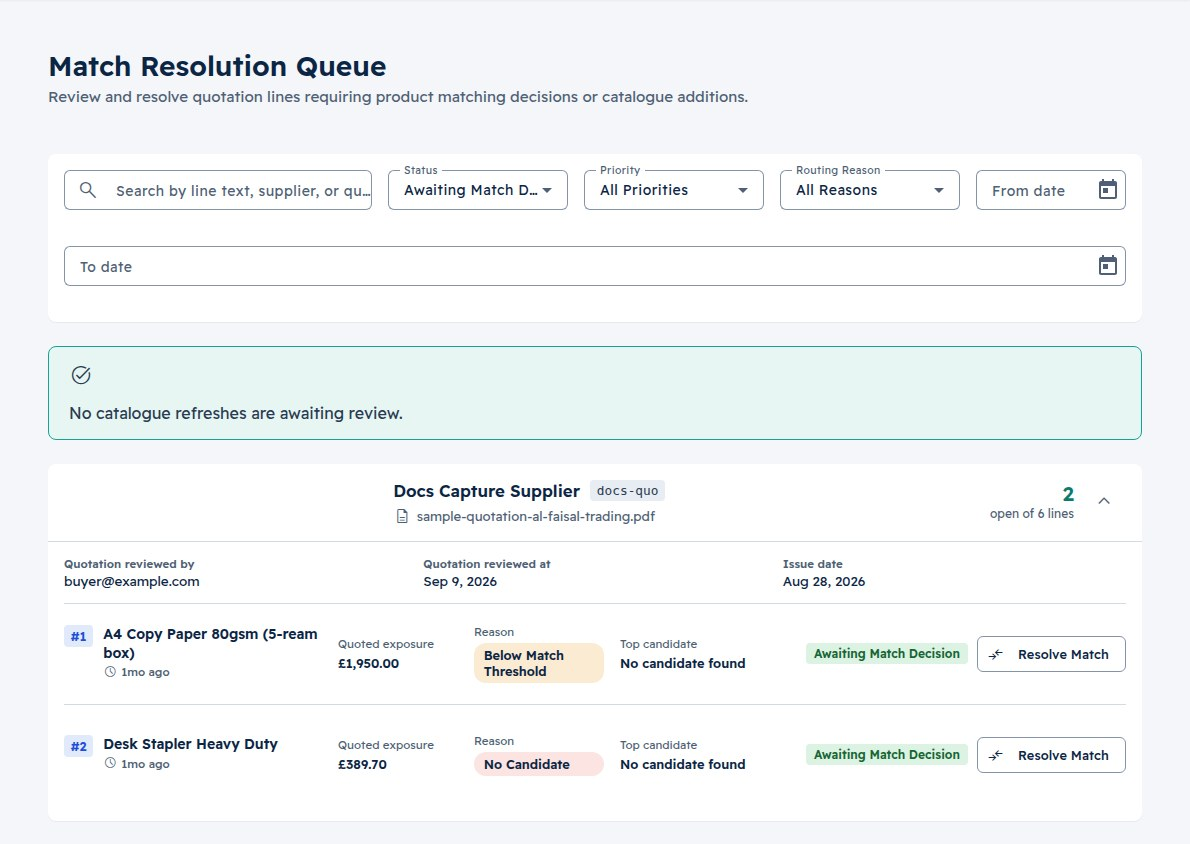
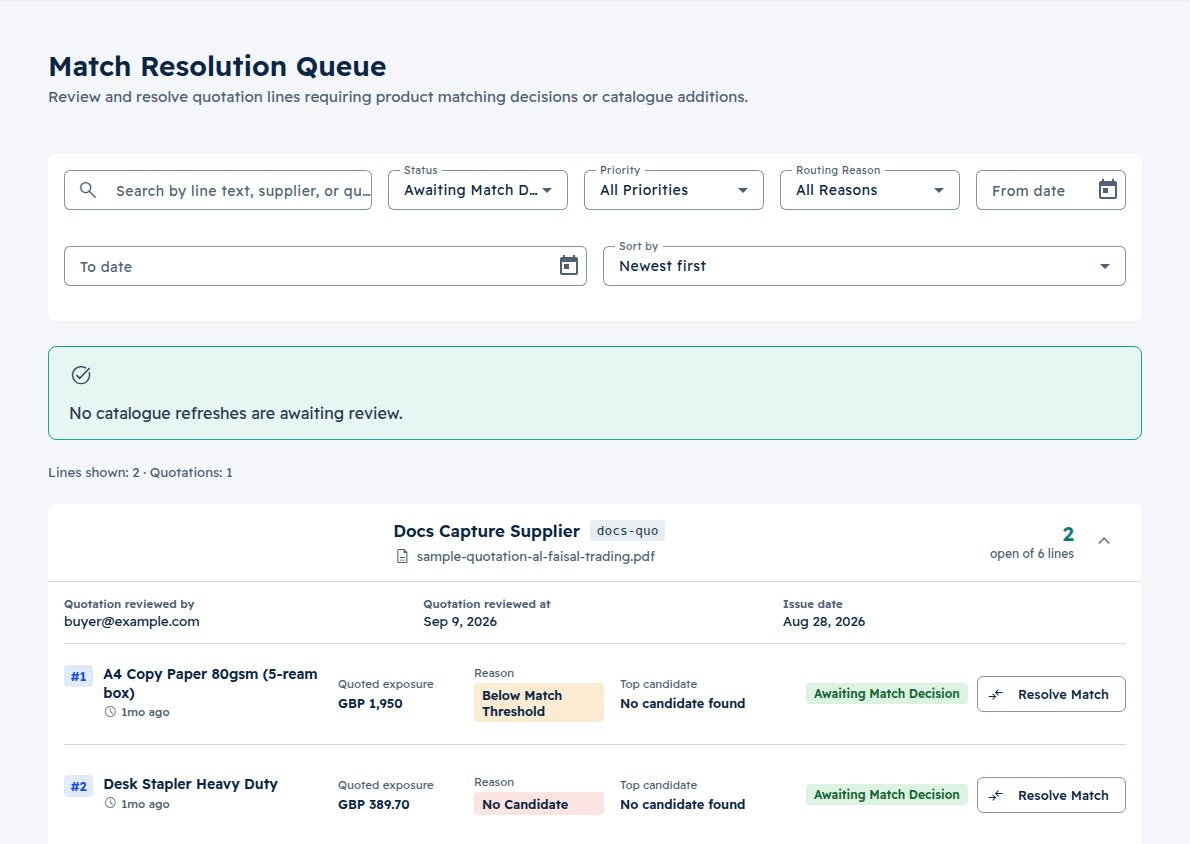
feat(matching): queue sort control, visible result count and more routing reasons (P-153, PPS-197) (#477)
* test(matching): red tests for queue sort control, visible count and routing reasons, plus catalogue keys (P-153, PPS-197)

* feat(matching): queue sort control, visible result count and every routing reason (P-153, PPS-197)

* test(matching): red tests for review findings on the queue reasons (P-153, PPS-197)

* fix(matching): drop the empty human_decided reason, widen status for resolved-only reasons, scope the all-matched state, keep the summary in the a11y tree (P-153, PPS-197)

* docs(screenshots): Match Resolution queue shows the Sort control and result count (P-153, PPS-197)

---------

diff --git a/apps/web/src/app/features/matching/resolution-queue/resolution-queue.component.html b/apps/web/src/app/features/matching/resolution-queue/resolution-queue.component.html
@@ -113,13 +113,19 @@
       </mat-form-field>
       <mat-form-field appearance="outline" class="filter-field">
         <mat-label>{{ 'matching.queue.filterReason' | translate }}</mat-label>
-        <mat-select [value]="reasonFilter()" (selectionChange)="onReasonChange($event.value)">
+        <mat-select
+          data-testid="queue-reason-filter"
+          [value]="reasonFilter()"
+          (selectionChange)="onReasonChange($event.value)"
+        >
           <mat-option value="all">{{ 'matching.queue.reason.all' | translate }}</mat-option>
           <mat-option value="low_confidence">{{ 'matching.queue.reason.low_confidence' | translate }}</mat-option>
           <mat-option value="close_candidates">{{ 'matching.queue.reason.close_candidates' | translate }}</mat-option>
           <mat-option value="fuzzy_match_review">{{ 'matching.queue.reason.fuzzy_match_review' | translate }}</mat-option>
           <mat-option value="no_candidate">{{ 'matching.queue.reason.no_candidate' | translate }}</mat-option>
           <mat-option value="alias_conflict">{{ 'matching.queue.reason.alias_conflict' | translate }}</mat-option>
+          <mat-option value="auto_accepted">{{ 'matching.queue.reason.auto_accepted' | translate }}</mat-option>
+          <mat-option value="corrected">{{ 'matching.queue.reason.corrected' | translate }}</mat-option>
         </mat-select>
       </mat-form-field>
       <mat-form-field appearance="outline" class="filter-field date-field">
@@ -143,6 +149,19 @@
         />
         <mat-datepicker-toggle matIconSuffix [for]="dateToPicker"></mat-datepicker-toggle>
         <mat-datepicker #dateToPicker></mat-datepicker>
+      </mat-form-field>
+      <mat-form-field appearance="outline" class="filter-field">
+        <mat-label>{{ 'matching.queue.sort.label' | translate }}</mat-label>
+        <mat-select
+          data-testid="queue-sort"
+          [value]="currentSortValue()"
+          (selectionChange)="onSortSelectChange($event.value)"
+        >
+          <mat-option value="created_at/desc">{{ 'matching.queue.sort.createdDesc' | translate }}</mat-option>
+          <mat-option value="created_at/asc">{{ 'matching.queue.sort.createdAsc' | translate }}</mat-option>
+          <mat-option value="priority/desc">{{ 'matching.queue.sort.priorityDesc' | translate }}</mat-option>
+          <mat-option value="priority/asc">{{ 'matching.queue.sort.priorityAsc' | translate }}</mat-option>
+        </mat-select>
       </mat-form-field>
     </mat-card-content>
   </mat-card>
@@ -202,9 +221,9 @@
     </section>
   }
 
-  <div class="visually-hidden" data-testid="queue-result-summary" role="status" aria-live="polite">
+  <div class="queue-result-summary" data-testid="queue-result-summary" role="status" aria-live="polite">
     @if (isLoading() === false && tasksLoadFailed() === false) {
-      {{ 'matching.queue.resultSummary' | translate: { lines: tasks().length, quotations: groups().length } }}
+      {{ 'matching.queue.resultSummary' | translate: { lines: tasks().length, quotations: groups().length } }}@if (nextCursor() !== null) { · {{ 'matching.queue.moreAvailable' | translate }}}
     }
   </div>
 
@@ -213,7 +232,7 @@
       <mat-spinner [attr.aria-label]="'common.loading' | translate" diameter="40"></mat-spinner>
       <span>{{ 'common.loading' | translate }}</span>
     </div>
-  } @else if (!tasksLoadFailed() && tasks().length === 0 && quotationId()) {
+  } @else if (tasksLoadFailed() === false && tasks().length === 0 && quotationId() !== null && otherFiltersActive() === false) {
     <div class="empty-state" data-testid="quotation-all-matched">
       <mat-icon class="empty-icon" aria-hidden="true">done_all</mat-icon>
       <h2 class="empty-title">{{ 'matching.queue.allLinesMatchedTitle' | translate }}</h2>
@@ -228,7 +247,7 @@
         </button>
       </div>
     </div>
-  } @else if (!tasksLoadFailed() && tasks().length === 0 && hasActiveFilters()) {
+  } @else if (tasksLoadFailed() === false && tasks().length === 0 && hasActiveFilters() === true) {
     <div class="empty-state">
       <mat-icon class="empty-icon" aria-hidden="true">filter_alt_off</mat-icon>
       <h2 class="empty-title">{{ 'matching.queue.noFilterResults' | translate }}</h2>
@@ -237,13 +256,13 @@
         <span>{{ 'matching.queue.clearFilters' | translate }}</span>
       </button>
     </div>
-  } @else if (!tasksLoadFailed() && tasks().length === 0) {
+  } @else if (tasksLoadFailed() === false && tasks().length === 0) {
     <div class="empty-state">
       <mat-icon class="empty-icon" aria-hidden="true">done_all</mat-icon>
       <h2 class="empty-title">{{ 'matching.queue.emptyTitle' | translate }}</h2>
       <p class="empty-message">{{ 'matching.queue.emptyMessage' | translate }}</p>
     </div>
-  } @else if (!tasksLoadFailed() && tasks().length > 0) {
+  } @else if (tasksLoadFailed() === false && tasks().length > 0) {
     <section class="quotation-groups" [attr.aria-label]="'matching.queue.groupsLabel' | translate">
       @for (group of groups(); track group.quotation.id) {
         <mat-card class="quotation-group">

diff --git a/apps/web/src/app/features/matching/resolution-queue/resolution-queue.component.spec.ts b/apps/web/src/app/features/matching/resolution-queue/resolution-queue.component.spec.ts
@@ -626,6 +626,96 @@ describe('ResolutionQueueComponent', () => {
     });
   });
 
+  describe('sorting, count and reasons (P-153, PPS-197)', () => {
+    const el = (): HTMLElement => fixture.nativeElement as HTMLElement;
+    const openSelect = (testId: string): string[] => {
+      const trigger = el().querySelector(`[data-testid="${testId}"] .mat-mdc-select-trigger`) as HTMLElement;
+      expect(trigger).withContext(testId).toBeTruthy();
+      trigger.click();
+      fixture.detectChanges();
+      return Array.from(document.querySelectorAll('.mat-mdc-option')).map((o) => o.textContent!.trim());
+    };
+    const pick = (label: string): void => {
+      const option = Array.from(document.querySelectorAll('.mat-mdc-option')).find(
+        (o) => o.textContent!.trim() === label,
+      ) as HTMLElement;
+      expect(option).withContext(label).toBeTruthy();
+      option.click();
+      fixture.detectChanges();
+    };
+
+    it('lets the buyer sort the queue and reloads with the chosen order', () => {
+      const labels = openSelect('queue-sort');
+      expect(labels).toContain(enCatalog.matching.queue.sort.priorityDesc);
+      expect(labels).toContain(enCatalog.matching.queue.sort.createdAsc);
+
+      apiService.getMatchTasks.calls.reset();
+      pick(enCatalog.matching.queue.sort.priorityDesc);
+
+      expect(apiService.getMatchTasks).toHaveBeenCalledWith(
+        jasmine.objectContaining({ sort_by: 'priority', sort_order: 'desc' }),
+      );
+    });
+
+    it('shows how many lines and quotations are listed, and that more can be loaded', () => {
+      const count = el().querySelector('[data-testid="queue-result-summary"]') as HTMLElement;
+      expect(count.classList.contains('visually-hidden')).withContext('visible to everyone').toBeFalse();
+      expect(count.textContent).toContain('Lines shown: 2');
+      expect(count.textContent).toContain(enCatalog.matching.queue.moreAvailable);
+
+      component.nextCursor.set(null);
+      fixture.detectChanges();
+      expect(count.textContent).not.toContain(enCatalog.matching.queue.moreAvailable);
+    });
+
+    it('offers the routing reasons the queue can return, and not one it never returns', () => {
+      const labels = openSelect('queue-reason-filter');
+      expect(labels).toContain(enCatalog.matching.queue.reason.auto_accepted);
+      expect(labels).toContain(enCatalog.matching.queue.reason.corrected);
+      // No queue query yields «human_decided» rows, so offering it would always show an empty list.
+      expect(labels).not.toContain(enCatalog.matching.queue.reason.human_decided);
+    });
+
+    it('widens the status to All when a reason that only resolved lines have is chosen under Open', () => {
+      expect(component.statusFilter()).toBe('open');
+      apiService.getMatchTasks.calls.reset();
+
+      component.onReasonChange('corrected');
+
+      expect(component.statusFilter()).toBe('all');
+      expect(apiService.getMatchTasks).toHaveBeenCalledWith(
+        jasmine.objectContaining({ status: 'all', reason: 'corrected' }),
+      );
+    });
+
+    it('leaves the status alone for reasons that open lines have', () => {
+      component.onReasonChange('low_confidence');
+      expect(component.statusFilter()).toBe('open');
+    });
+
+    it('does not say every line of the quote is matched when another filter is hiding lines', () => {
+      component.quotationId.set('q-101');
+      component.reasonFilter.set('low_confidence');
+      component.tasks.set([]);
+      fixture.detectChanges();
+
+      expect(el().querySelector('[data-testid="quotation-all-matched"]')).toBeNull();
+      expect(el().querySelector('.clear-filters-btn')).toBeTruthy();
+    });
+
+    it('treats a non-default sort as an active filter and Clear restores the default order', () => {
+      component.sortBy.set('priority');
+      component.sortOrder.set('asc');
+      expect(component.hasActiveFilters()).toBeTrue();
+
+      component.clearFilters();
+
+      expect(component.sortBy()).toBe('created_at');
+      expect(component.sortOrder()).toBe('desc');
+      expect(component.hasActiveFilters()).toBeFalse();
+    });
+  });
+
   describe('RFQ-aware matching in queue (spec 023 US1)', () => {
     it('shows "Correct match" button for auto-accepted line when isWriter, and hides it for non-writer', () => {
       const autoTask: MatchTask = {

diff --git a/apps/web/src/app/features/matching/resolution-queue/resolution-queue.component.ts b/apps/web/src/app/features/matching/resolution-queue/resolution-queue.component.ts
@@ -131,8 +131,27 @@ export class ResolutionQueueComponent implements OnInit {
       this.reasonFilter() !== 'all' ||
       this.searchQuery().trim().length > 0 ||
       this.dateFrom() !== null ||
+      this.dateTo() !== null ||
+      this.sortBy() !== 'created_at' ||
+      this.sortOrder() !== 'desc',
+  );
+
+  readonly otherFiltersActive = computed<boolean>(
+    () =>
+      (this.statusFilter() !== 'open' && this.statusFilter() !== 'all') ||
+      this.priorityFilter() !== 'all' ||
+      this.reasonFilter() !== 'all' ||
+      this.searchQuery().trim().length > 0 ||
+      this.dateFrom() !== null ||
       this.dateTo() !== null,
   );
+
+  readonly currentSortValue = computed<string | null>(() => {
+    const val = `${this.sortBy()}/${this.sortOrder()}`;
+    return ['created_at/desc', 'created_at/asc', 'priority/desc', 'priority/asc'].includes(val)
+      ? val
+      : null;
+  });
 
   readonly groups = computed<readonly QuotationTaskGroup[]>(() => {
     const grouped = new Map<string, MatchQueueItem[]>();
@@ -156,7 +175,19 @@ export class ResolutionQueueComponent implements OnInit {
       this.priorityFilter.set(priority);
     }
     const reason = qp.get('reason') as MatchTaskReason | 'all' | null;
-    if (reason && ['all', 'low_confidence', 'close_candidates', 'fuzzy_match_review', 'no_candidate', 'alias_conflict', 'auto_accepted'].includes(reason)) {
+    if (
+      reason &&
+      [
+        'all',
+        'low_confidence',
+        'close_candidates',
+        'fuzzy_match_review',
+        'no_candidate',
+        'alias_conflict',
+        'auto_accepted',
+        'corrected',
+      ].includes(reason)
+    ) {
       this.reasonFilter.set(reason);
     }
     const search = qp.get('search');
@@ -378,6 +409,12 @@ export class ResolutionQueueComponent implements OnInit {
   onReasonChange(reason: MatchTaskReason | 'all'): void {
     this.clearCorrectionNotices();
     this.reasonFilter.set(reason);
+    if (
+      (reason === 'auto_accepted' || reason === 'corrected') &&
+      (this.statusFilter() === 'open' || this.statusFilter() === 'in_progress')
+    ) {
+      this.statusFilter.set('all');
+    }
     this.syncQueryParams();
     this.loadTasks();
   }
@@ -414,6 +451,16 @@ export class ResolutionQueueComponent implements OnInit {
     }
   }
 
+  onSortSelectChange(value: string): void {
+    if (!value) return;
+    this.clearCorrectionNotices();
+    const [by, order] = value.split('/') as [MatchTaskSortBy, MatchTaskSortOrder];
+    this.sortBy.set(by);
+    this.sortOrder.set(order);
+    this.syncQueryParams();
+    this.loadTasks();
+  }
+
   onSortChange(sort: Sort): void {
     if (this.isSortableColumn(sort.active)) {
       this.sortBy.set(sort.active);
@@ -432,6 +479,8 @@ export class ResolutionQueueComponent implements OnInit {
     this.searchQuery.set('');
     this.dateFrom.set(null);
     this.dateTo.set(null);
+    this.sortBy.set('created_at');
+    this.sortOrder.set('desc');
     this.syncQueryParams();
     this.loadTasks();
   }

diff --git a/apps/web/src/app/features/matching/resolution-queue/resolution-queue.component.scss b/apps/web/src/app/features/matching/resolution-queue/resolution-queue.component.scss
@@ -9,6 +9,18 @@
   margin: 0 auto;
 }
 
+.queue-result-summary {
+  font-size: 0.825rem;
+  color: var(--pp-text-muted);
+  margin-block: 0;
+
+  &:empty {
+    margin: 0;
+    padding: 0;
+    min-block-size: 0;
+  }
+}
+
 .visually-hidden {
   position: absolute;
   inline-size: 1px;
